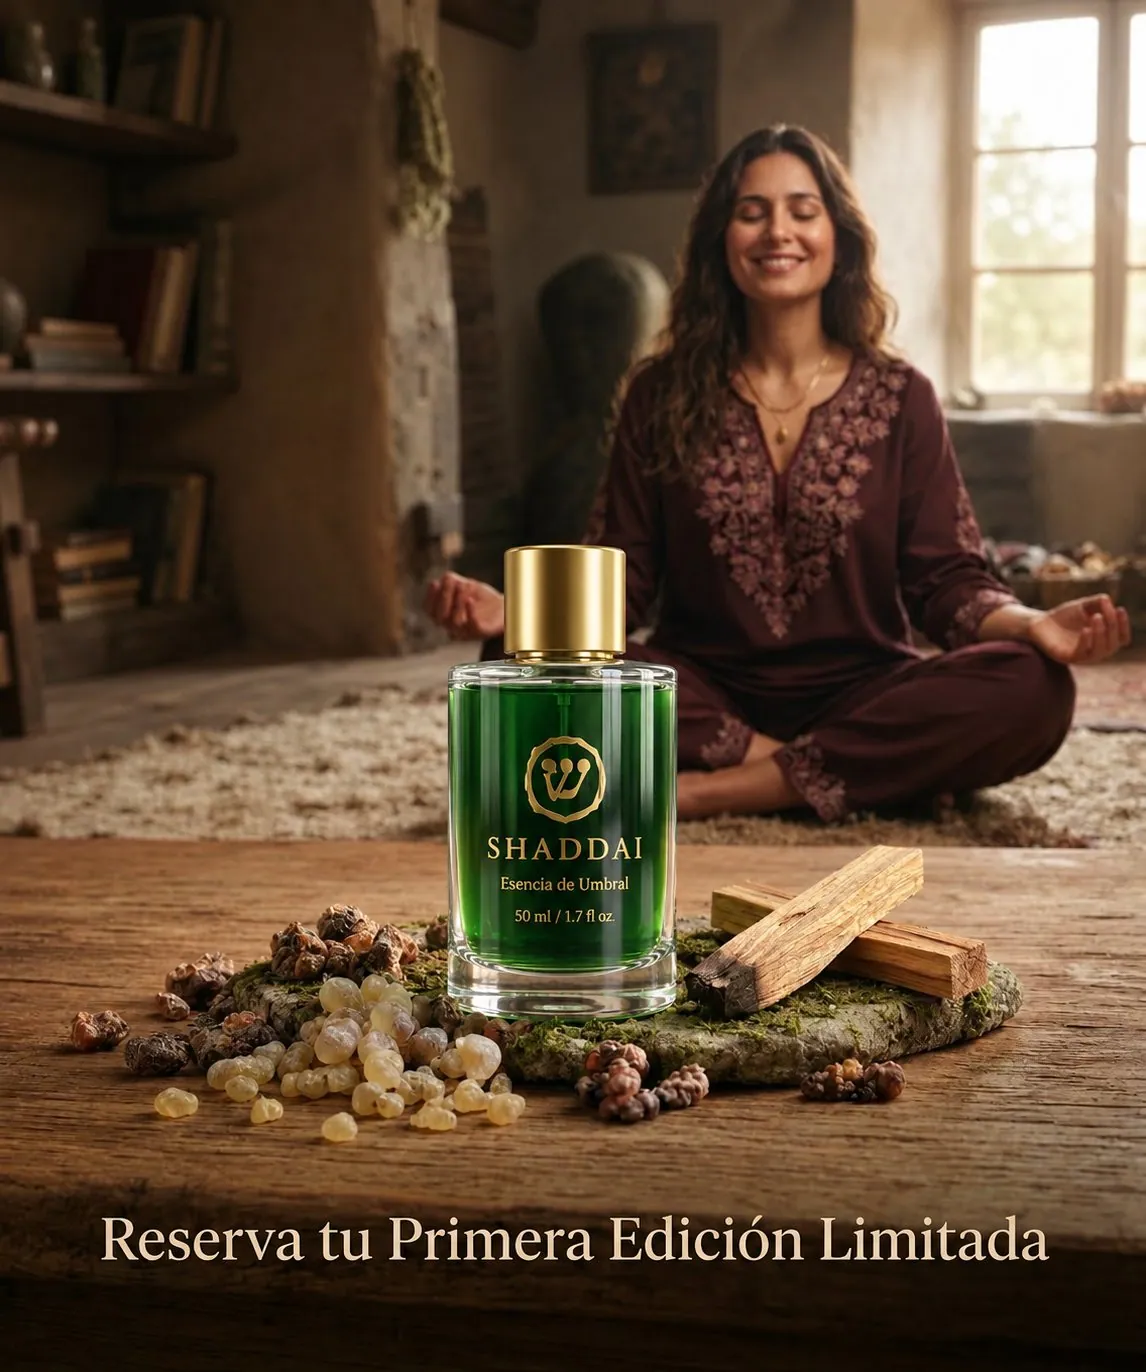
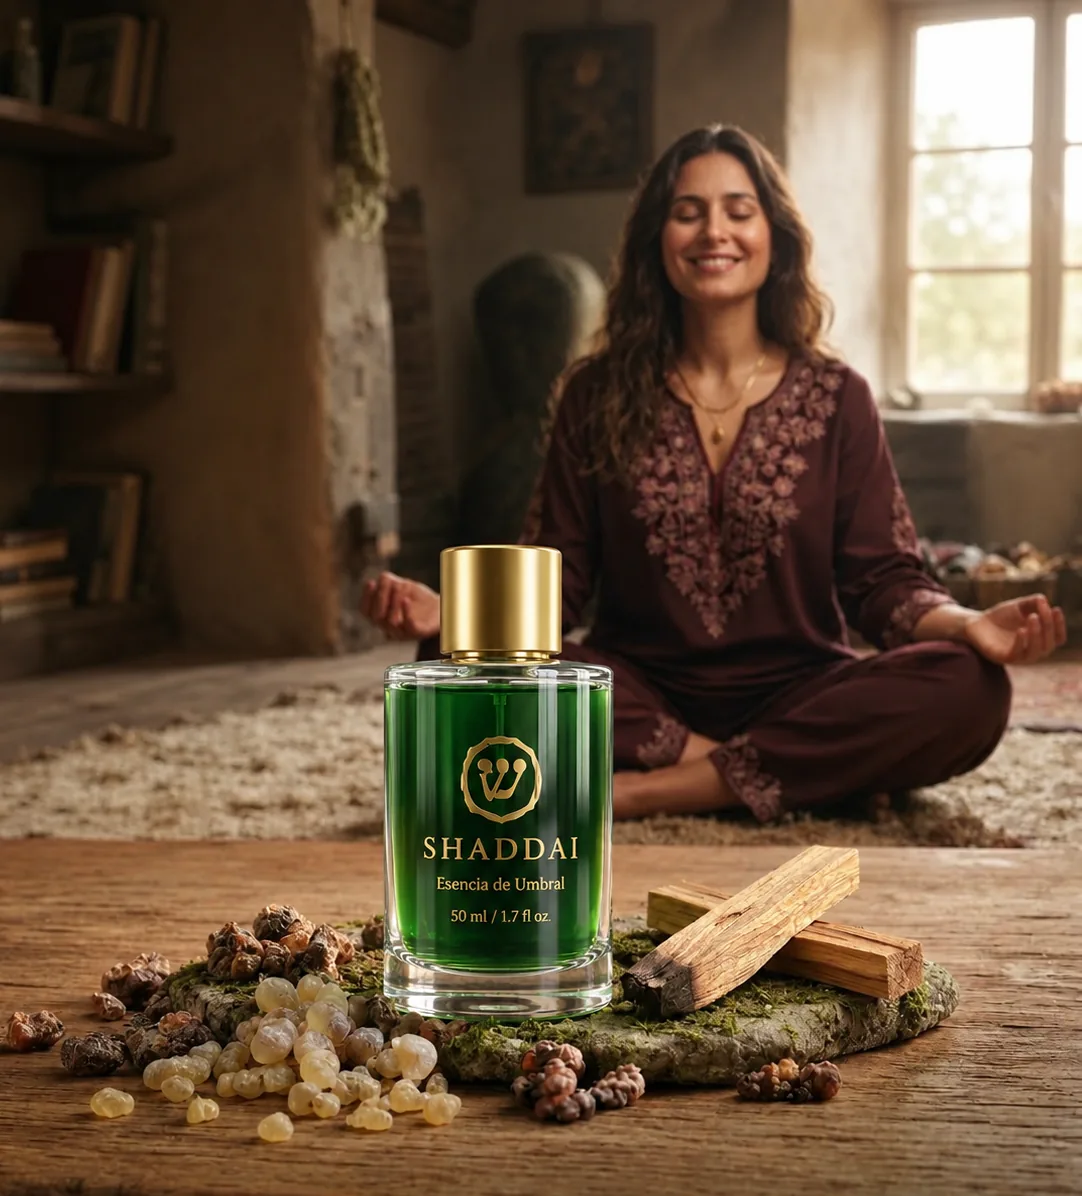
Inicio: nueva imagen de pausa liquida en alta calidad (1082px WebP)

diff --git a/shaddai-web/index.html b/shaddai-web/index.html
@@ -165,7 +165,7 @@
     <section class="seccion">
       <div class="contenedor dos-columnas inversa">
         <div class="columna-imagen marco-imagen revelar">
-          <img src="img/pausa-liquida.webp?v=6" alt="Frasco verde de SHADDAI con incienso y palo santo sobre mesa de madera, con mujer meditando al fondo: Reserva tu Primera Edición Limitada" loading="lazy" width="1146" height="1372">
+          <img src="img/pausa-liquida.webp?v=7" alt="Frasco verde de SHADDAI con incienso y palo santo sobre mesa de madera, con mujer meditando al fondo: Reserva tu Primera Edición Limitada" loading="lazy" width="1082" height="1196">
         </div>
         <div class="revelar">
           <span class="etiqueta">Una pausa para ti</span>
